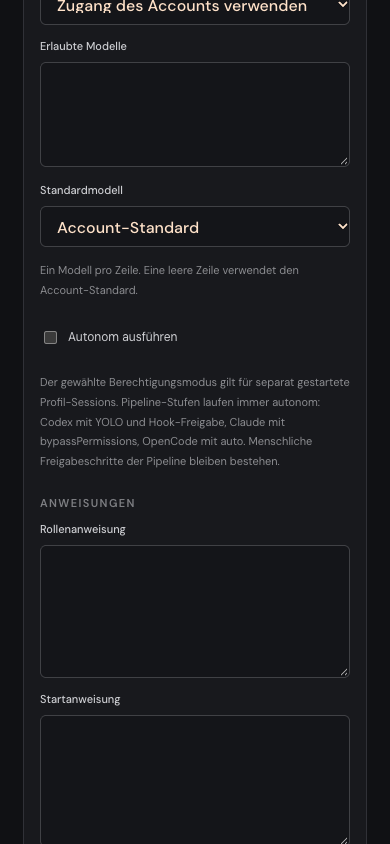
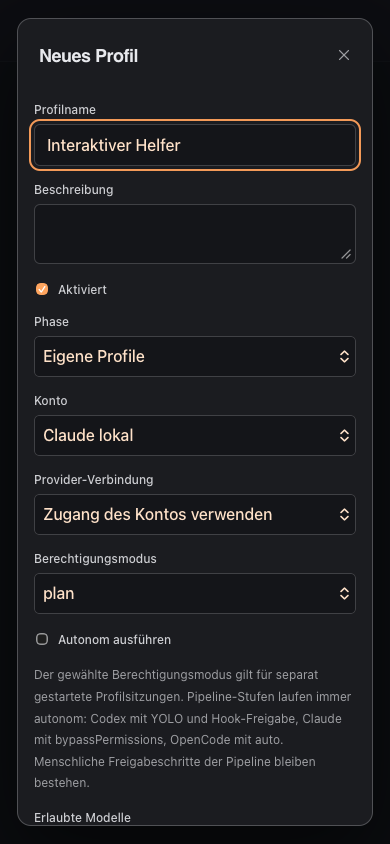
fix: mark a failed agent runtime red and an uncertain turn as a warning
Also restore docs/screenshots/pipeline-permissions.png, which a local
pipelines-profiles.spec run had overwritten.

diff --git a/web/features/assistants/AssistantHeader.jsx b/web/features/assistants/AssistantHeader.jsx
@@ -4,21 +4,13 @@ import { assistantCopy as copy } from "../../lib/i18n/messages/assistants.js";
 import { mobileHeaderCopy } from "../../lib/i18n/messages/app.js";
 import useAssistants from "./useAssistants.js";
 import { avatarGlyph } from "./avatar-glyph.js";
-import { activityFor, headerStatus } from "./assistant-status.js";
+import { activityFor, headerDotTone, headerStatus } from "./assistant-status.js";
 import { assistantShellCopy } from "../../lib/i18n/messages/assistant-shell.js";
 import { assistantBrowserCopy } from "../../lib/i18n/messages/assistant-browser.js";
 import { shellLevel } from "./shell-level.js";
 import BrowserPreview from "./browser/BrowserPreview.jsx";
 import "./assistant-shell.css";
 import StatusDot from "../../components/StatusDot.jsx";
-
-// headerStatus tones as StatusDot tones; "missing" hides the dot.
-const headerTones = {
-  ready: "ok",
-  working: "working",
-  waiting: "waiting",
-  attention: "unknown",
-};
 
 // One bar for the agent chat and its settings (handoff 1d, 2e, 2f). Below 701px it
 // replaces the app's mobile header, so it carries the navigation button itself.
@@ -100,7 +92,7 @@ export default function AssistantHeader({
           ) : (
             <p className={`assistant-header-status ${status.tone}`}>
               <StatusDot
-                tone={headerTones[status.tone] ?? "idle"}
+                tone={headerDotTone(status.tone, runtime?.availability)}
                 pulse={status.tone === "working"}
                 className="assistant-header-dot"
               />

diff --git a/tests/unit/status-tones.test.js b/tests/unit/status-tones.test.js
@@ -14,3 +14,14 @@ test("activity and chip states map onto the StatusDot tones", () => {
   for (const tone of ["ok", "error", "pending", "waiting"])
     assert.equal(chipTone(tone), tone);
 });
+
+test("the agent header dot marks a failed runtime as an error and attention as a warning", async () => {
+  const { headerDotTone } =
+    await import("../../web/features/assistants/assistant-status.js");
+  assert.equal(headerDotTone("attention", "failed"), "error");
+  assert.equal(headerDotTone("attention", "stale"), "warning");
+  assert.equal(headerDotTone("attention", "ready"), "warning");
+  assert.equal(headerDotTone("ready", "ready"), "ok");
+  assert.equal(headerDotTone("working", "ready"), "working");
+  assert.equal(headerDotTone("muted", "starting"), "idle");
+});

diff --git a/web/features/assistants/assistant-status.js b/web/features/assistants/assistant-status.js
@@ -26,6 +26,14 @@ export function copyAt(copy, path) {
   return typeof value === "string" ? value : undefined;
 }
 
+// The header dot of a headerStatus tone: a failed runtime is an error, a stale runtime or
+// an uncertain or interrupted turn a warning; "missing" shows no dot.
+const headerDots = { ready: "ok", working: "working", waiting: "waiting" };
+export function headerDotTone(tone, availability) {
+  if (tone === "attention") return availability === "failed" ? "error" : "warning";
+  return headerDots[tone] ?? "idle";
+}
+
 export function headerStatus({
   assistant,
   models,
